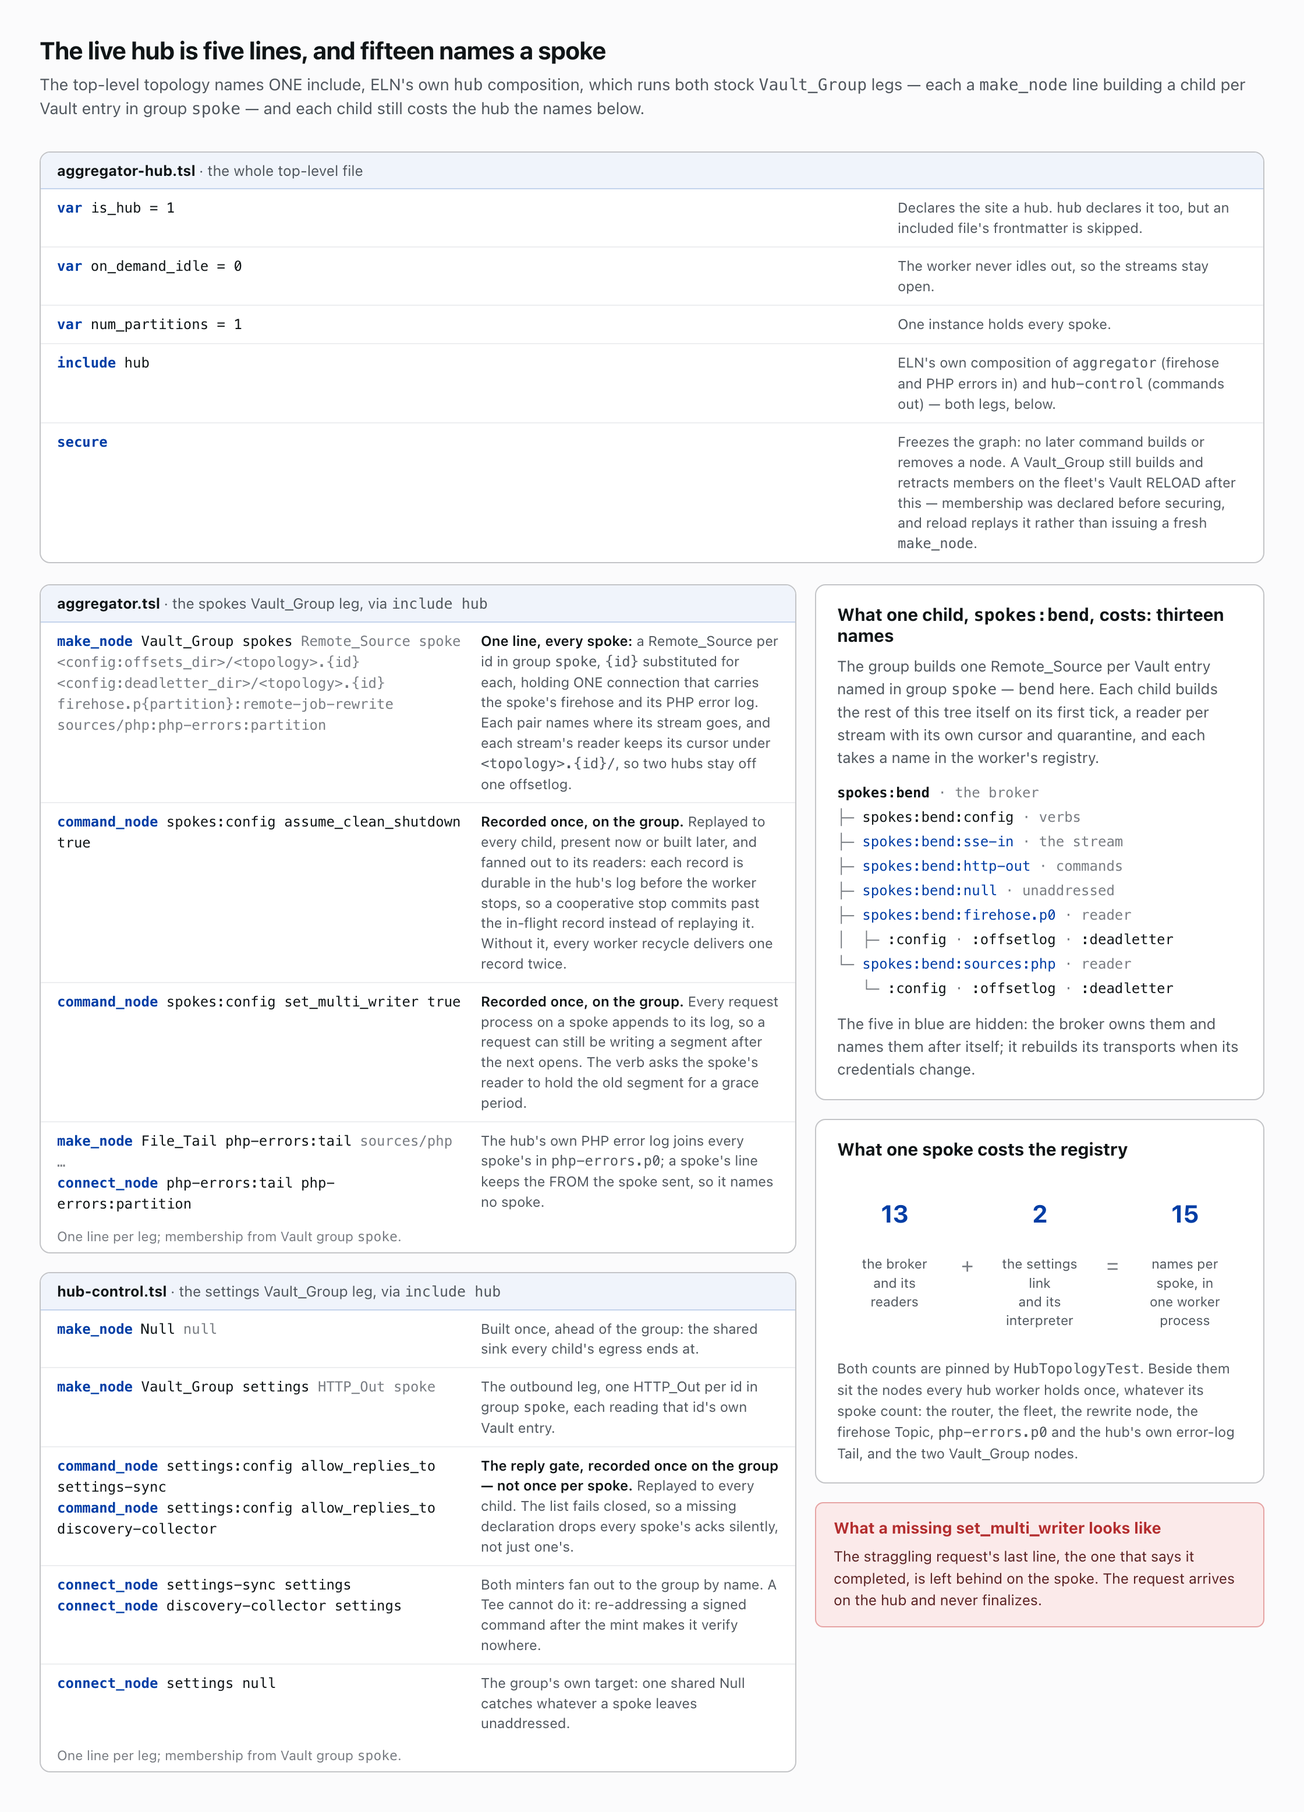
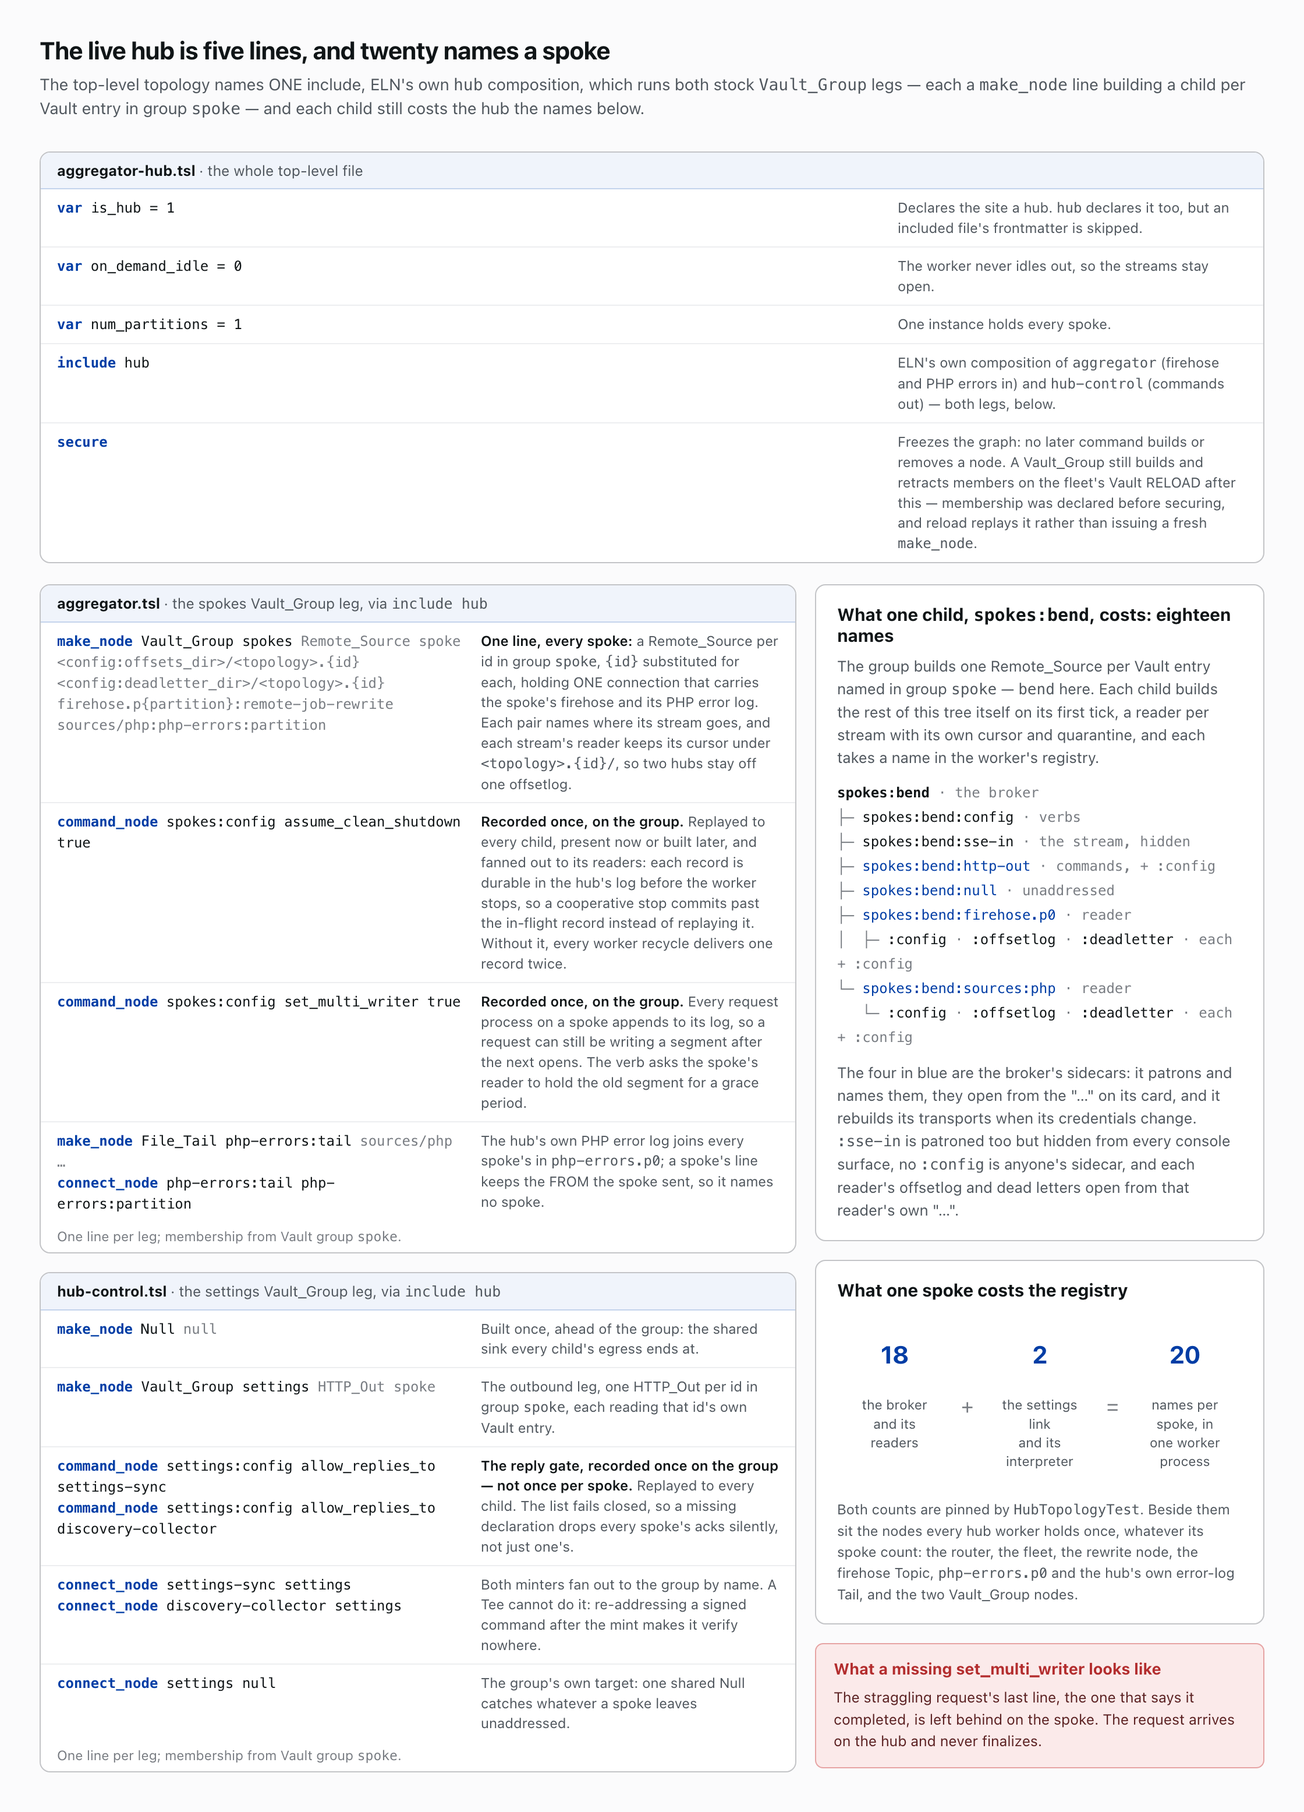
docs: owned nodes open from their patron's "…"; a patron keeps :config
The substrate draws no owned node on the canvas and no longer drops a
patroned node's :config. The hub cost test counts the broker's patroned
readers' interpreters, and the hub, flight and review docs name what each
"…" lists.

Changed region(s): [[0.625, 0.5301, 0.9375, 0.9666], [0.2812, 0.0, 0.4688, 0.0312], [0.9062, 0.3118, 0.9375, 0.343]]

diff --git a/docs/img/d07b.html b/docs/img/d07b.html
@@ -26,7 +26,7 @@
   .math .op { flex: 0 0 26px; font-size: 17px; color: #787C82; align-self: center; padding: 0; }
 </style>
 <div class="sheet">
-  <h1>The live hub is five lines, and fifteen names a spoke</h1>
+  <h1>The live hub is five lines, and twenty names a spoke</h1>
   <p class="sub">The top-level topology names ONE include, ELN's own <span class="mono">hub</span> composition, which runs both stock <span class="mono">Vault_Group</span> legs — each a <span class="mono">make_node</span> line building a child per Vault entry in group <span class="mono">spoke</span> — and each child still costs the hub the names below.</p>
 
   <div class="listing">
@@ -62,30 +62,30 @@
 
     <div style="flex:0 0 386px">
       <div class="card">
-        <h3>What one child, <span class="mono">spokes:bend</span>, costs: thirteen names</h3>
+        <h3>What one child, <span class="mono">spokes:bend</span>, costs: eighteen names</h3>
         <p style="margin-bottom:10px">The group builds one Remote_Source per Vault entry named in group <span class="mono">spoke</span> — <span class="mono">bend</span> here. Each child builds the rest of this tree itself on its first tick, a reader per stream with its own cursor and quarantine, and each takes a name in the worker's registry.</p>
         <div class="tree">
           <div><span style="font-weight:600">spokes:bend</span> <span class="t">· the broker</span></div>
           <div><span class="t">├─</span> spokes:bend:config <span class="t">· verbs</span></div>
-          <div><span class="t">├─</span> <span class="own">spokes:bend:sse-in</span> <span class="t">· the stream</span></div>
-          <div><span class="t">├─</span> <span class="own">spokes:bend:http-out</span> <span class="t">· commands</span></div>
+          <div><span class="t">├─</span> spokes:bend:sse-in <span class="t">· the stream, hidden</span></div>
+          <div><span class="t">├─</span> <span class="own">spokes:bend:http-out</span> <span class="t">· commands, + :config</span></div>
           <div><span class="t">├─</span> <span class="own">spokes:bend:null</span> <span class="t">· unaddressed</span></div>
           <div><span class="t">├─</span> <span class="own">spokes:bend:firehose.p0</span> <span class="t">· reader</span></div>
-          <div><span class="t">│&nbsp;&nbsp;├─</span> :config <span class="t">·</span> :offsetlog <span class="t">·</span> :deadletter</div>
+          <div><span class="t">│&nbsp;&nbsp;├─</span> :config <span class="t">·</span> :offsetlog <span class="t">·</span> :deadletter <span class="t">· each + :config</span></div>
           <div><span class="t">└─</span> <span class="own">spokes:bend:sources:php</span> <span class="t">· reader</span></div>
-          <div><span class="t">&nbsp;&nbsp;&nbsp;└─</span> :config <span class="t">·</span> :offsetlog <span class="t">·</span> :deadletter</div>
+          <div><span class="t">&nbsp;&nbsp;&nbsp;└─</span> :config <span class="t">·</span> :offsetlog <span class="t">·</span> :deadletter <span class="t">· each + :config</span></div>
         </div>
-        <p style="margin:10px 0 0">The five in blue are hidden: the broker owns them and names them after itself; it rebuilds its transports when its credentials change.</p>
+        <p style="margin:10px 0 0">The four in blue are the broker's sidecars: it patrons and names them, they open from the "…" on its card, and it rebuilds its transports when its credentials change. <span class="mono">:sse-in</span> is patroned too but hidden from every console surface, no <span class="mono">:config</span> is anyone's sidecar, and each reader's offsetlog and dead letters open from that reader's own "…".</p>
       </div>
 
       <div class="card" style="margin-top:16px">
         <h3>What one spoke costs the registry</h3>
         <div class="math">
-          <div><div class="big">13</div><div class="cap2">the broker<br>and its readers</div></div>
+          <div><div class="big">18</div><div class="cap2">the broker<br>and its readers</div></div>
           <div class="op">+</div>
           <div><div class="big">2</div><div class="cap2">the settings link<br>and its interpreter</div></div>
           <div class="op">=</div>
-          <div><div class="big">15</div><div class="cap2">names per spoke, in<br>one worker process</div></div>
+          <div><div class="big">20</div><div class="cap2">names per spoke, in<br>one worker process</div></div>
         </div>
         <p style="font-size:12px;color:#50575E;line-height:1.5;margin:4px 0 0">Both counts are pinned by <span class="mono">HubTopologyTest</span>. Beside them sit the nodes every hub worker holds once, whatever its spoke count: the router, the fleet, the rewrite node, the firehose Topic, <span class="mono">php-errors.p0</span> and the hub's own error-log Tail, and the two Vault_Group nodes.</p>
       </div>

diff --git a/tests/unit/ServiceCiHandlerGuardTest.php b/tests/unit/ServiceCiHandlerGuardTest.php
@@ -18,7 +18,8 @@
  *   - test_migrated_cis_appear_in_substrate_class_catalog_as_service: fires the
  *     substrate's `Classes_CI list` and asserts every CI's shell_name is in the
  *     catalog with `category === 'Service'`. A future typo dropping a category
- *     back to ''/'Hidden' would silently re-hide the interpreter; this fails loudly.
+ *     to '' would silently drop the interpreter from the catalog, and one to
+ *     'Hidden' would mislabel it; this fails loudly on either.
  *   - test_every_schema_verb_installs_as_a_command: for each CI, asserts every
  *     verb in its node_schema()['commands'] is a key in `commands()` — the
  *     schema→commands derivation actually installed each verb (symmetry with the
@@ -84,10 +85,10 @@ class ServiceCiHandlerGuardTest extends TestCase {
 	 * shell_name appears with `category === 'Service'`.
 	 *
 	 * Non-vacuous: the `category === 'Service'` assertion can fail — it would if
-	 * an interpreter's node_schema category were dropped back to ''/'Hidden' (the substrate
-	 * filters those out of the catalog entirely, so the shell_name would simply
-	 * be absent and assertArrayHasKey fails first; if it were some OTHER
-	 * non-empty category it would appear but assertSame catches it). A
+	 * an interpreter's node_schema category were dropped to '' (the substrate
+	 * filters that out of the catalog entirely, so the shell_name would simply
+	 * be absent and assertArrayHasKey fails first; if it were 'Hidden' or some
+	 * OTHER non-empty category it would appear but assertSame catches it). A
 	 * stale/empty composer classmap fails LOUDLY at the assertNotEmpty guard, not
 	 * vacuously green — mirrors the substrate ClassesCITest guard.
 	 */
@@ -115,7 +116,7 @@ class ServiceCiHandlerGuardTest extends TestCase {
 			$this->assertArrayHasKey(
 				$shell_name,
 				$by_shell,
-				"migrated CI '{$shell_name}' is absent from the substrate class catalog — its node_schema category was dropped to ''/'Hidden', or class discovery is broken"
+				"migrated CI '{$shell_name}' is absent from the substrate class catalog — its node_schema category was dropped to '', or class discovery is broken"
 			);
 			$this->assertSame(
 				'Service',

diff --git a/tests/integration/HubTopologyTest.php b/tests/integration/HubTopologyTest.php
@@ -110,16 +110,16 @@ class HubTopologyTest extends TestCase {
 
 	/**
 	 * What one spoke costs the hub worker's registry, as `hub-control.md` and
-	 * its `d07b` sheet count it: thirteen names for its broker, and two for
+	 * its `d07b` sheet count it: eighteen names for its broker, and two for
 	 * its settings link.
 	 */
-	public function test_one_spoke_costs_thirteen_broker_names_and_two_settings_names(): void {
+	public function test_one_spoke_costs_eighteen_broker_names_and_two_settings_names(): void {
 		$this->load_hub();
 		Core::node( 'spokes:tw7' )->fire();
 
 		$names   = \array_keys( Core::$nodes_by_name );
 		$under   = static fn ( string $root ): array => \array_values( \array_filter( $names, static fn ( string $name ): bool => $root === $name || \str_starts_with( $name, "{$root}:" ) ) );
-		$this->assertCount( 13, $under( 'spokes:tw7' ), \implode( ', ', $under( 'spokes:tw7' ) ) );
+		$this->assertCount( 18, $under( 'spokes:tw7' ), \implode( ', ', $under( 'spokes:tw7' ) ) );
 		$this->assertCount( 2, $under( 'settings:tw7' ), \implode( ', ', $under( 'settings:tw7' ) ) );
 	}
 

diff --git a/includes/class-request-flight-node.php b/includes/class-request-flight-node.php
@@ -10,11 +10,12 @@
  * what the Gyroscope dashboard renders. Its non-public DN ancestor is named in
  * newspack-nodes' `docs/tachikoma-lineage.md`.
  *
- * Hidden twice over: the substrate's patron filter in `dump_metadata` drops it
- * from the live canvas, and `node_schema`'s `Hidden` category drops it from the
- * palette. Both knobs therefore surface on the patron's `:config` interpreter
- * instead — `set_inflight_target`, which enables snapshotting by naming a
- * destination, and `set_inflight_delta`.
+ * The request builder patrons it, so it stays off the canvas and opens from
+ * the "…" on the builder's card, and `node_schema`'s `Hidden` category keeps
+ * it off the palette. A `Timer_Node` builds no `:config` of its own, so both
+ * knobs surface on the patron's `:config` interpreter — `set_inflight_target`,
+ * which enables snapshotting by naming a destination, and
+ * `set_inflight_delta`.
  *
  * @package Newspack_Event_Logger_Nodes
  */

diff --git a/tests/unit/LogManagerSiblingNodesTest.php b/tests/unit/LogManagerSiblingNodesTest.php
@@ -117,6 +117,7 @@ class LogManagerSiblingNodesTest extends TestCase {
 		$topic = $this->topic( $lm );
 		$this->assertInstanceOf( Topic_Node::class, $topic );
 		$this->assertSame( $topic, $topic->patron(), 'firehose Topic must be self-patron-linked so dump_metadata hides it' );
+		$this->assert_owned_nodes_keep_their_config();
 	}
 
 	/**

diff --git a/docs/hub-control.md b/docs/hub-control.md
@@ -43,7 +43,7 @@ Every site's job worker runs the job entries in its own firehose, and the hub mu
 
 The stock [`aggregator`](../topologies/aggregator.tsl) topology ships a `spokes` `Vault_Group` over Vault group `spoke`, building one [Remote_Source](https://github.com/Automattic/newspack-nodes/blob/main/includes/class-remote-source-node.php) broker per spoke and following the Vault on reload. Each broker holds one connection that carries two of the spoke's streams, `firehose.p{partition}` into the rewrite node and `sources/php`, the spoke's PHP error log, into `php-errors.p0`, where the hub's own error log joins them through `php-errors:tail`. Every `sources/<name>` the topology names must resolve where it is read, or that leg fails loud: the hub's tail fails the load when the hub lacks `php`, and a spoke lacking it refuses the subscription, which costs the hub that spoke's whole stream, firehose included. The built-in `php` needs PHP's `error_log` set to an absolute file path; `wp nodes doctor`'s `log-sources` row checks the sources each site reads itself. The live hub runs those same groups, reached through ELN's own [`hub`](../topologies/hub.tsl) composition, as below.
 
-![Annotated listing of the live hub's topology: the five-line top-level file naming one include, aggregator's spokes Vault_Group leg with its two pairs and the hub's own error-log Tail, hub-control's settings Vault_Group leg, and the fifteen names one spoke costs the hub, thirteen for its Remote_Source and two for its settings link](img/d07b.png)
+![Annotated listing of the live hub's topology: the five-line top-level file naming one include, aggregator's spokes Vault_Group leg with its two pairs and the hub's own error-log Tail, hub-control's settings Vault_Group leg, and the twenty names one spoke costs the hub, eighteen for its Remote_Source and two for its settings link](img/d07b.png)
 
 The top-level topology, `aggregator-hub.tsl`, is five lines: `var is_hub = 1`, which declares the site a hub and must sit here because frontmatter is read from the top-level file only, so `hub`'s own declaration is skipped; an on-demand idle of zero, so the worker never idles out; one partition, so one instance holds every spoke; `include hub`, ELN's own composition of `aggregator` and `hub-control`; and `secure`, which freezes the graph so that no later command builds or removes a node — though a Vault_Group still builds and retracts members on the fleet's Vault RELOAD after `secure`, since membership was declared before securing and a reload replays that declaration rather than issuing a fresh `make_node`. The active topology NAME stays `aggregator-hub` rather than `hub` itself: every Remote_Source's offsetlog and dead-letter path is scoped by `<topology>`, so renaming the active file would start every spoke on a fresh cursor.
 
@@ -51,7 +51,7 @@ The top-level topology, `aggregator-hub.tsl`, is five lines: `var is_hub = 1`, w
 
 `hub-control`'s `settings` `Vault_Group` builds one [HTTP_Out](https://github.com/Automattic/newspack-nodes/blob/v2.56.0/includes/class-http-out-node.php) per Vault entry in group `spoke`, each reading that entry's own credentials; the two [`allow_replies_to`](https://github.com/Automattic/newspack-nodes/blob/main/docs/hub-and-spoke.md#the-reply-gate) declarations naming the settings node and the discovery node are recorded once on the group, not once per spoke, and replayed the same way to every child; and the group's own target is one shared Null, catching whatever a spoke leaves unaddressed. A spoke writes every field of its reply, TO included, and `allow_replies_to` is the list of TO paths the hub delivers; any other is dropped, and the list fails closed, so a missing declaration drops every spoke's acks silently rather than just one's. The [security model](security-model.md) argues the trade.
 
-One Remote_Source child costs the hub thirteen names: the broker, its config interpreter, its three hidden transports, `:sse-in`, `:http-out` and `:null`, and for each of its two readers the reader itself, its config interpreter, its offsetlog and its dead-letter partition. Its settings link costs two more, the HTTP_Out and its config interpreter, so each spoke adds fifteen names to the one hub worker process; `HubTopologyTest` pins both counts. Adding or dropping a spoke is a Vault edit, one `make_node Vault_Group` line per leg kind rather than a line per spoke, so there is no per-spoke line to miss.
+One Remote_Source child costs the hub eighteen names: the broker, its config interpreter, its three transports, `:sse-in`, `:http-out` and its config interpreter, and `:null`, and for each of its two readers the reader itself, its config interpreter, and its offsetlog and dead-letter partitions, each with a config interpreter of its own. The broker's sidecars, off the canvas and opened from the "…" on its card, are exactly its two readers, `:http-out` and `:null`; `:sse-in` is hidden from every console surface, no `:config` interpreter is anyone's sidecar, and each offsetlog and dead-letter partition is its reader's sidecar, opened from the "…" in that reader's Inspector. Its settings link costs two more, the HTTP_Out and its config interpreter, so each spoke adds twenty names to the one hub worker process; `HubTopologyTest` pins both counts. Adding or dropping a spoke is a Vault edit, one `make_node Vault_Group` line per leg kind rather than a line per spoke, so there is no per-spoke line to miss.
 
 ## Read more
 

diff --git a/docs/architecture-guide.md b/docs/architecture-guide.md
@@ -556,7 +556,7 @@ class Request_Flight_Node extends Timer_Node {
 }
 ```
 
-[`Request_Flight_Node`](../includes/class-request-flight-node.php) has no `set_interval()` / `interval()` / `fire_cb()`: snapshots hitchhike the Router's 1s TIMER through `fire()`, a non-empty `target()` is the sole enable switch, and clearing it stops the timer. The node is hidden from the topology console by the substrate's patron filter in `dump_metadata`, and from the palette by its own `node_schema()` category. Its configuration surfaces on the patron's `:config` interpreter as `set_inflight_target` and `set_inflight_delta` — the `request-builder` topology (and therefore `performance` and `complete`) wires it with `cmd request-builder:config set_inflight_target gyroscope:partition`. The delta flag lives on the patron as a declared `toggle`, and Flight keeps no copy of it or of the in-flight map, so there is no second tracker to keep coherent.
+[`Request_Flight_Node`](../includes/class-request-flight-node.php) has no `set_interval()` / `interval()` / `fire_cb()`: snapshots hitchhike the Router's 1s TIMER through `fire()`, a non-empty `target()` is the sole enable switch, and clearing it stops the timer. The node stays off the topology console's canvas because the request builder patrons it, and it opens from the "…" on the request builder's card; its own `node_schema()` category keeps it off the palette. A `Timer_Node` builds no `:config` of its own, so its configuration surfaces on the patron's `:config` interpreter as `set_inflight_target` and `set_inflight_delta` — the `request-builder` topology (and therefore `performance` and `complete`) wires it with `cmd request-builder:config set_inflight_target gyroscope:partition`. The delta flag lives on the patron as a declared `toggle`, and Flight keeps no copy of it or of the in-flight map, so there is no second tracker to keep coherent.
 
 The `rps` arithmetic is [`GyroscopeView`](../src/gyroscope/nodes/gyroscope-view-node.js)'s own; the Request Log and the Error Log take their lines-per-second from the substrate's `RateSmoother`, which puts an EMA over the same windowed average.
 

diff --git a/.claude/skills/event-logger-nodes-review/SKILL.md b/.claude/skills/event-logger-nodes-review/SKILL.md
@@ -235,7 +235,7 @@ A diff adding a setting adds a `Field` with its `restart:` key, never a parallel
 
 `node_schema()` uses `'arguments'` for positional constructor args and `'commands'` for verb declarations. A diff reading or writing `'ctor'` or `'verbs'` is a stale port.
 
-Every node also declares a `'category'`, and the substrate's `Classes_CI_Node` refuses three shapes when it builds the console palette: a `'Hidden'` category, an empty one, and a truthy `'hidden'` flag. The three service CIs take `'Service'`; `Auto_Tuner_Node` and `Request_Flight_Node` take `'Hidden'`, because neither is composed by hand — the auto-tuner is wired by its topology, and the flight node is a `Timer_Node` sibling the `dump_metadata` patron filter also drops from the live canvas, so its two knobs (`set_inflight_target`, `set_inflight_delta`) surface on the patron's `:config` interpreter instead. Giving either a listed category offers an operator a node they cannot usefully place.
+Every node also declares a `'category'`. The substrate's `Classes_CI_Node` refuses an empty one and a `'hidden'` flag from the class catalog, and the console palette also leaves out `'Service'`, `'Remote'` and `'Hidden'`, which the Inspector still reads. The three service CIs take `'Service'`; `Auto_Tuner_Node` and `Request_Flight_Node` take `'Hidden'`, because neither is composed by hand — `Flame_Builder_Node` builds the auto-tuner as its patroned sibling, and the request builder builds the flight node, a `Timer_Node`, the same way; both open from their builder's "…" rather than the canvas, and since a Timer builds no `:config`, the flight's two knobs (`set_inflight_target`, `set_inflight_delta`) sit on the patron's `:config` interpreter. Giving either a listed category offers an operator a node they cannot usefully place.
 
 ### 24. Option names carry the prefix; the hook seams are a fixed set
 
